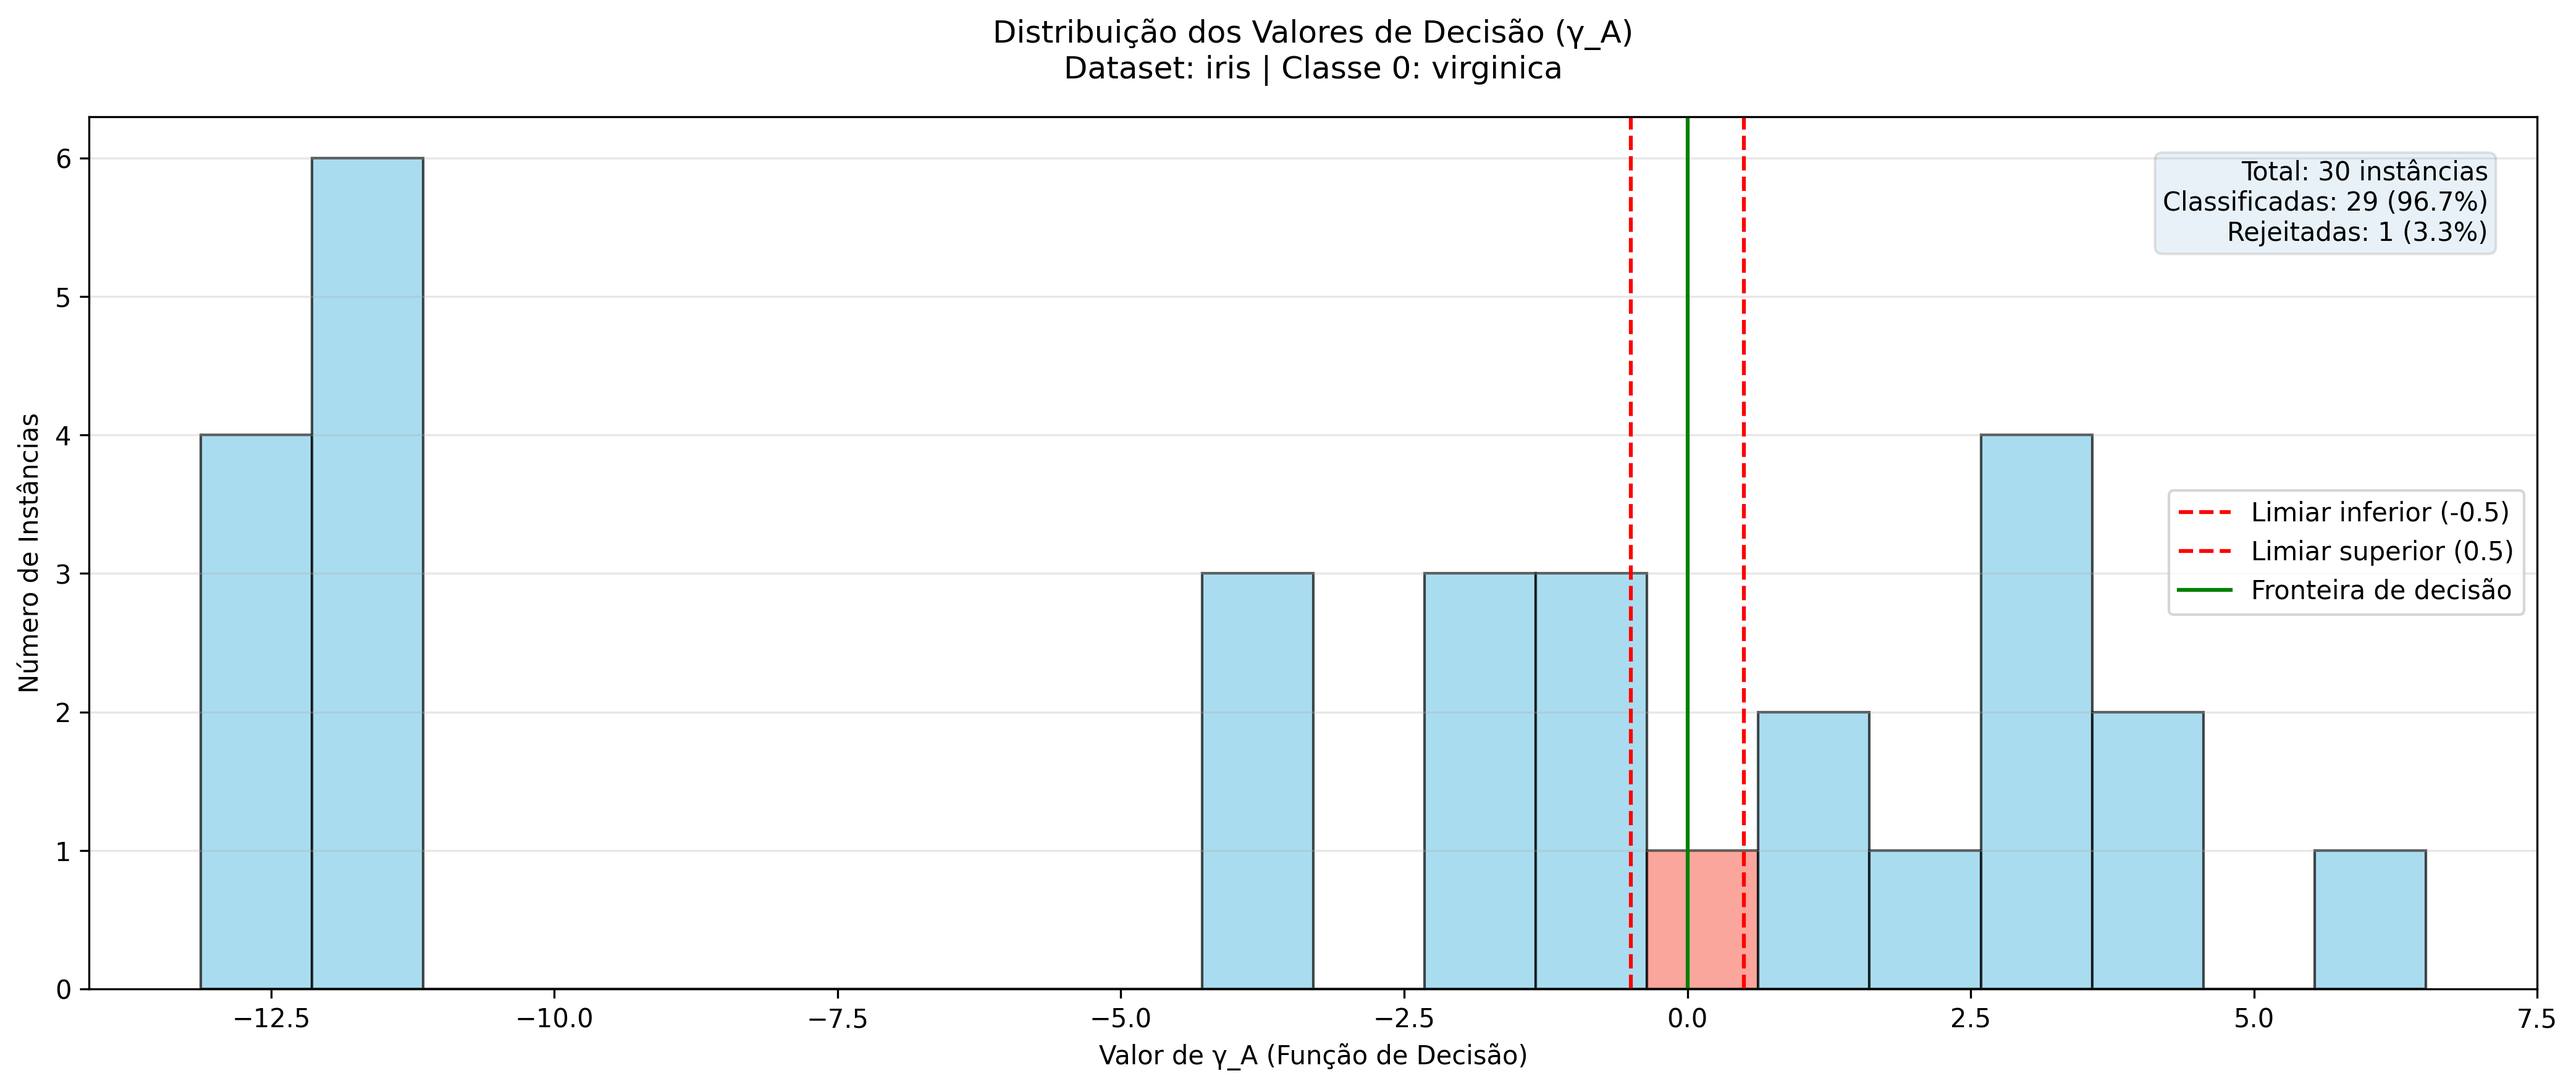
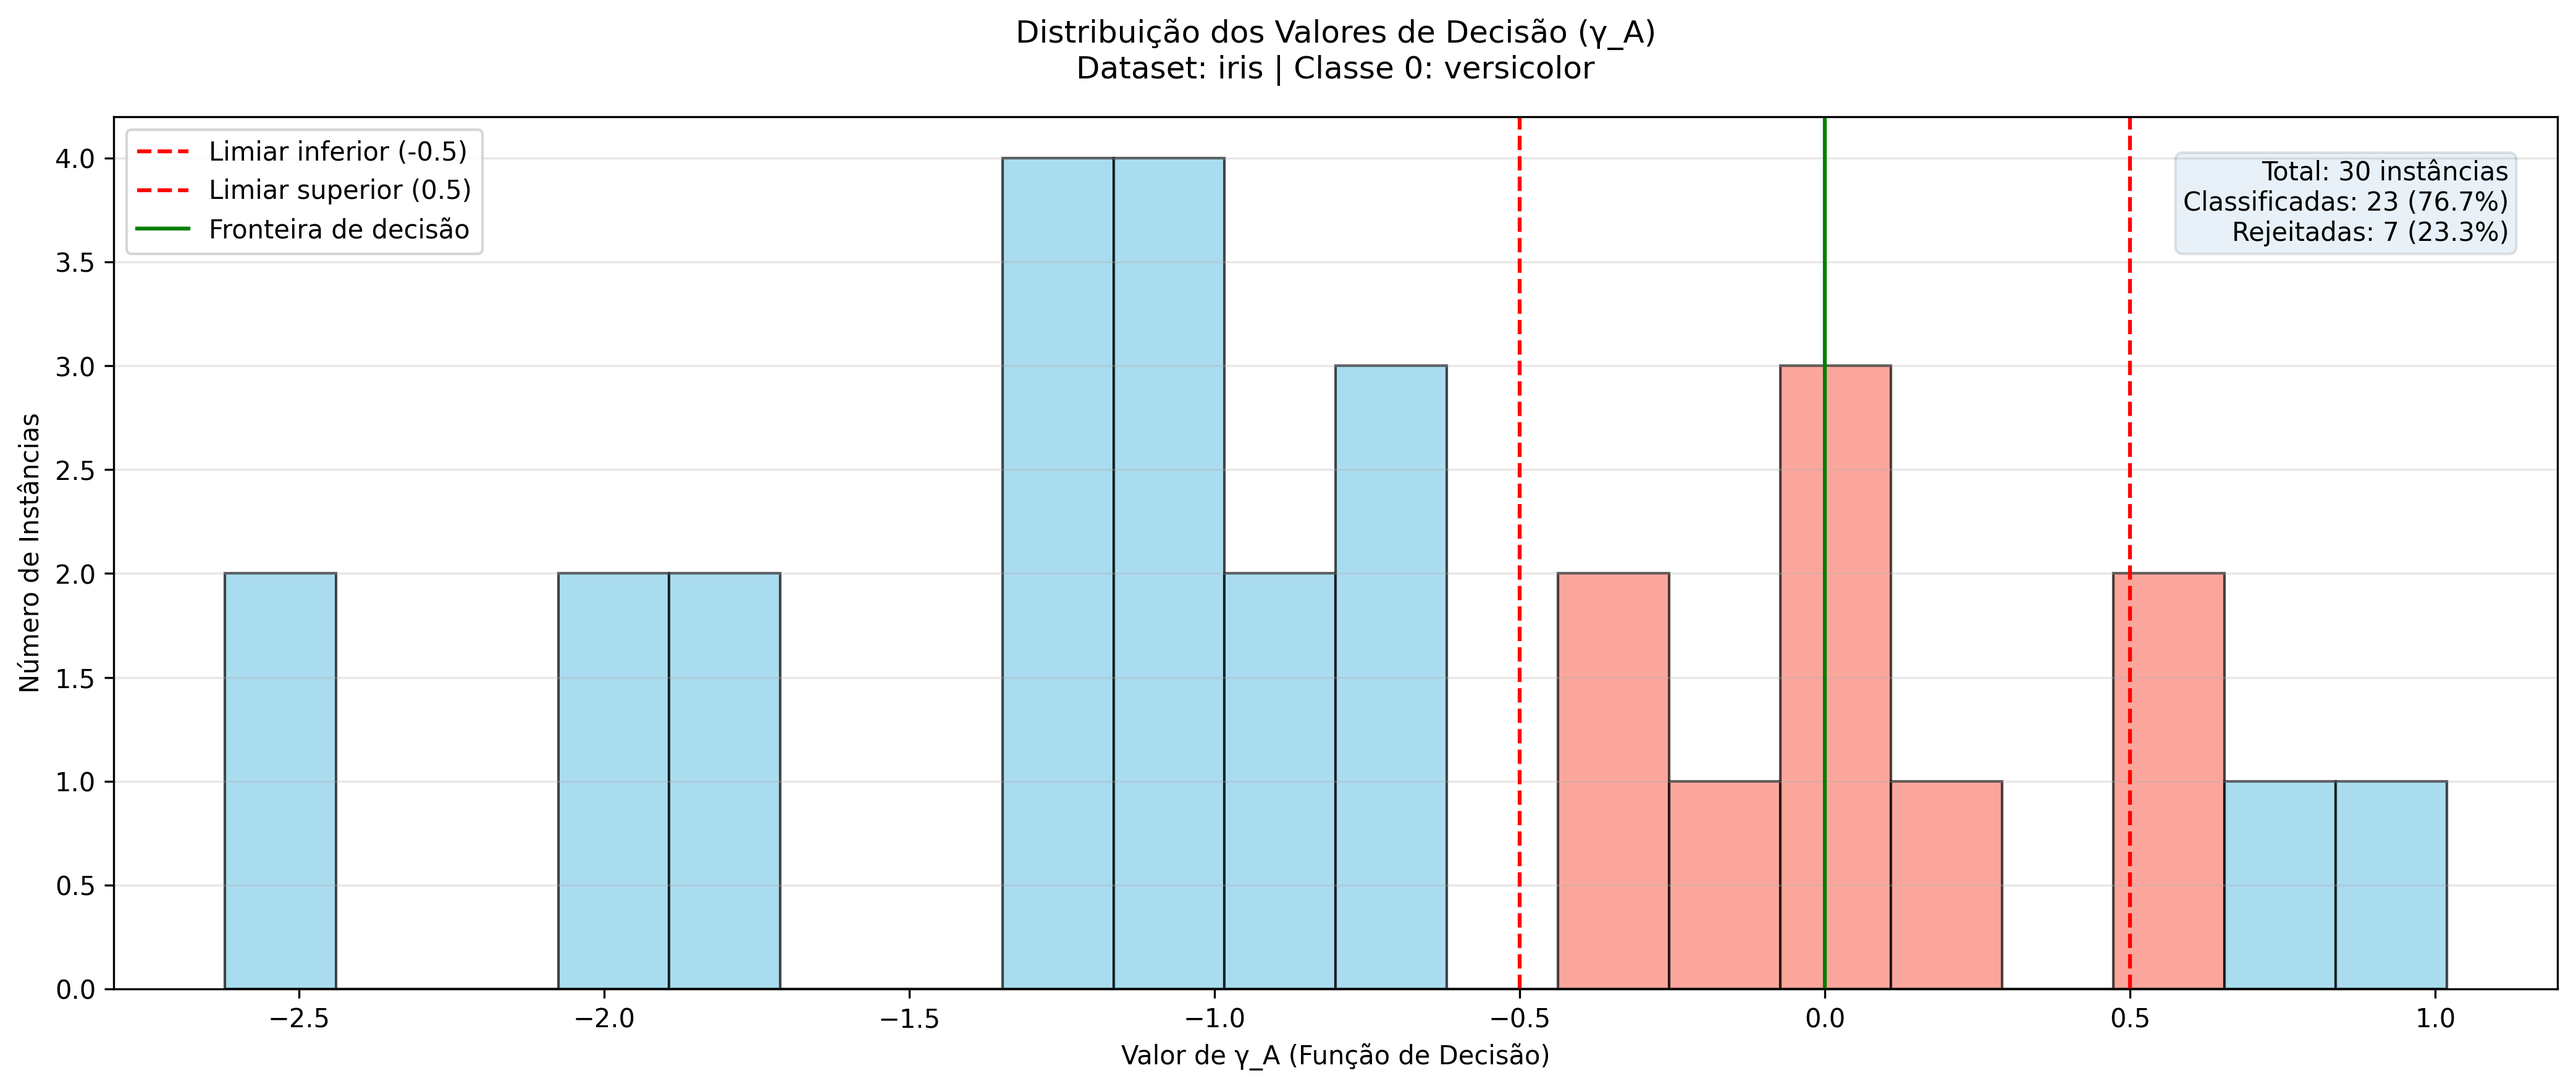
completo_opcao_rejeicao_plots

diff --git a/explanations/pi_explanation.py b/explanations/pi_explanation.py
@@ -23,7 +23,7 @@ def calcular_deltas(Vs, X, w, classe_verdadeira):
         deltas.append(delta)
     return deltas
 
-def one_explanation(Vs, delta, R, feature_names, class_names, classe_verdadeira):
+def one_explanation(Vs, delta, R, feature_names, classe_0_nome, classe_verdadeira):
     """
     Gera uma PI-explicação conforme Algoritmo 1 do artigo
     
@@ -64,11 +64,11 @@ def one_explanation(Vs, delta, R, feature_names, class_names, classe_verdadeira)
         Xpl.append("Nenhuma feature significativa identificada")
     
     if classe_verdadeira == 0:
-        return f"PI-Explicação - {class_names[0]}: " + ", ".join(Xpl)
+        return f"PI-Explicação - {classe_0_nome}: " + ", ".join(Xpl)
     else:
-        return f"PI-Explicação NÃO-{class_names[0]}: " + ", ".join(Xpl)
+        return f"PI-Explicação NÃO-{classe_0_nome}: " + ", ".join(Xpl)
 
-def analisar_instancias(X_test, y_test, class_names, modelo, X, gamma_reject=0.5):
+def analisar_instancias(X_test, y_test, classe_0_nome, class_names, modelo, X, gamma_reject = 0.5):
     """
     Analisa todas as instâncias com opção de rejeição
     
@@ -109,9 +109,15 @@ def analisar_instancias(X_test, y_test, class_names, modelo, X, gamma_reject=0.5
         
         # Verificar rejeição
         if abs(gamma_A) < gamma_reject:
-            msg = f"Instância {idx} REJEITADA | Classe real: {class_names[y_test[idx]]} | " \
-                  f"|γ_A|={abs(gamma_A):.2f} < {gamma_reject} | " \
-                  f"Valores: {Vs}"
+            if gamma_A >= 0:
+                status = f"PRÓXIMA DA CLASSE 1 (NÃO-{classe_0_nome})"
+            else:
+                status = f"PRÓXIMA DA CLASSE 0 ({classe_0_nome})"
+                
+            msg = (f"Instância {idx} REJEITADA | {status} | "
+                   f"Classe real: {class_names[y_test[idx]]} | "
+                   f"|γ_A|={abs(gamma_A):.2f} < {gamma_reject} | "
+                   f"Valores: {Vs}")
             explicacoes.append(msg)
             rejeicoes.append(idx)
             continue
@@ -126,7 +132,7 @@ def analisar_instancias(X_test, y_test, class_names, modelo, X, gamma_reject=0.5
         R = sum(delta) - gamma_A
         
         # 3. Gerar explicação (Algoritmo 1)
-        explicacao = one_explanation(Vs, delta, R, feature_names, class_names, classe_verdadeira)
+        explicacao = one_explanation(Vs, delta, R, feature_names, classe_0_nome, classe_verdadeira)
         explicacoes.append(explicacao)
         
         # Debug opcional
@@ -149,7 +155,7 @@ def analisar_instancias(X_test, y_test, class_names, modelo, X, gamma_reject=0.5
     
     return explicacoes
 
-def contar_features_relevantes(explicacoes, class_names):
+def contar_features_relevantes(explicacoes, classe_0_nome):
     """
     Conta features relevantes para a classe alvo (apenas para análise)
     Ignora instâncias rejeitadas na contagem
@@ -162,15 +168,12 @@ def contar_features_relevantes(explicacoes, class_names):
         Dicionário {feature: contagem}
     """
     contagem = {}
-    target_class = class_names[0]
     
     for exp in explicacoes:
-        # Pular instâncias rejeitadas
         if "REJEITADA" in exp:
             continue
             
-        if target_class in exp:  # Apenas explicações da classe alvo
-            # Extrai a parte após "PI-Explicação para ...: "
+        if classe_0_nome in exp:  # Agora usando classe_0_nome diretamente
             partes = exp.split(": ")
             if len(partes) > 1:
                 features = partes[1].split(", ")
@@ -178,7 +181,7 @@ def contar_features_relevantes(explicacoes, class_names):
                     nome = f.split(" - ")[0].strip()
                     contagem[nome] = contagem.get(nome, 0) + 1
     
-    print(f"\nContagem de Features Relevantes para '{target_class}' (excluindo rejeições):")
+    print(f"\nContagem de Features Relevantes para '{classe_0_nome}' (excluindo rejeições):")
     for f, cnt in sorted(contagem.items(), key=lambda x: x[1], reverse=True):
         print(f"  {f}: {cnt} ocorrências")
     

diff --git a/main.py b/main.py
@@ -53,13 +53,13 @@ def main():
     # Calcular PI-explicações com limiar de rejeição
     gamma_reject = 0.5  # Pode ser ajustado conforme necessidade
     inicio_pi = time.time()
-    explicacoes = analisar_instancias(X_test_df, y_test, class_names, modelo, X_df, gamma_reject)
+    explicacoes = analisar_instancias(X_test_df, y_test, classe_0_nome, class_names, modelo, X_df, gamma_reject)
     fim_pi = time.time()
     tempo_pi = fim_pi - inicio_pi
 
     # Contar features relevantes
     print("\n**Contagem de features relevantes:**")
-    contagem = contar_features_relevantes(explicacoes, class_names)
+    contagem = contar_features_relevantes(explicacoes, classe_0_nome)
 
     # ========== NOVO GRÁFICO DE DISTRIBUIÇÃO ==========
     plt.figure(figsize=(14, 6))
